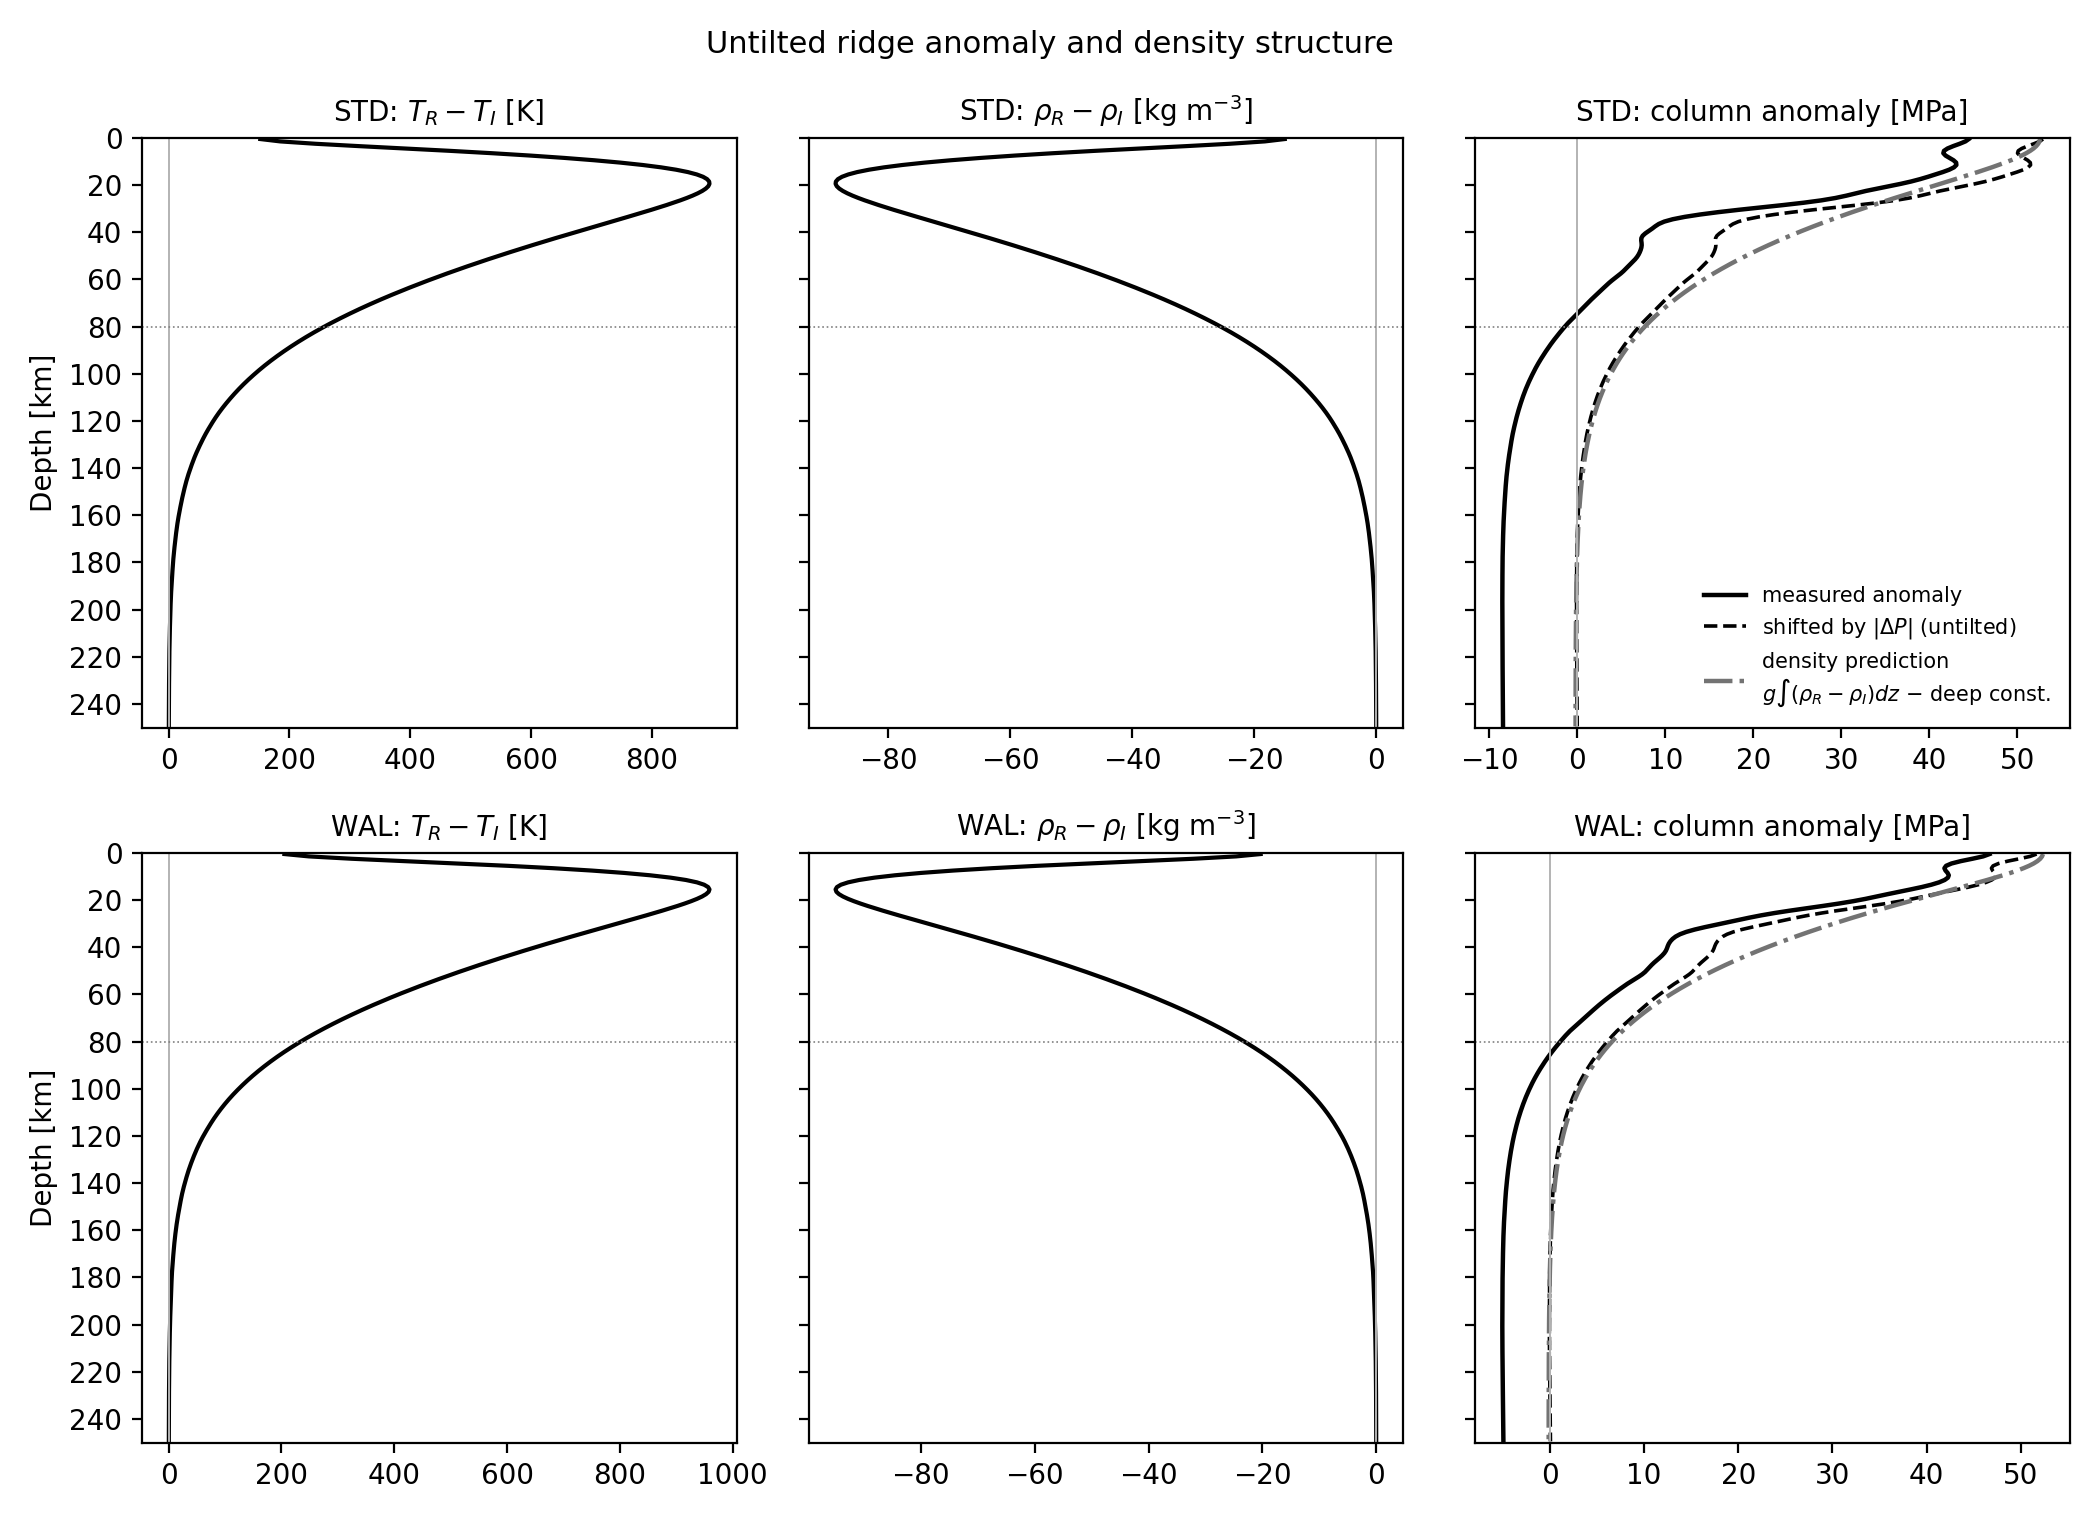
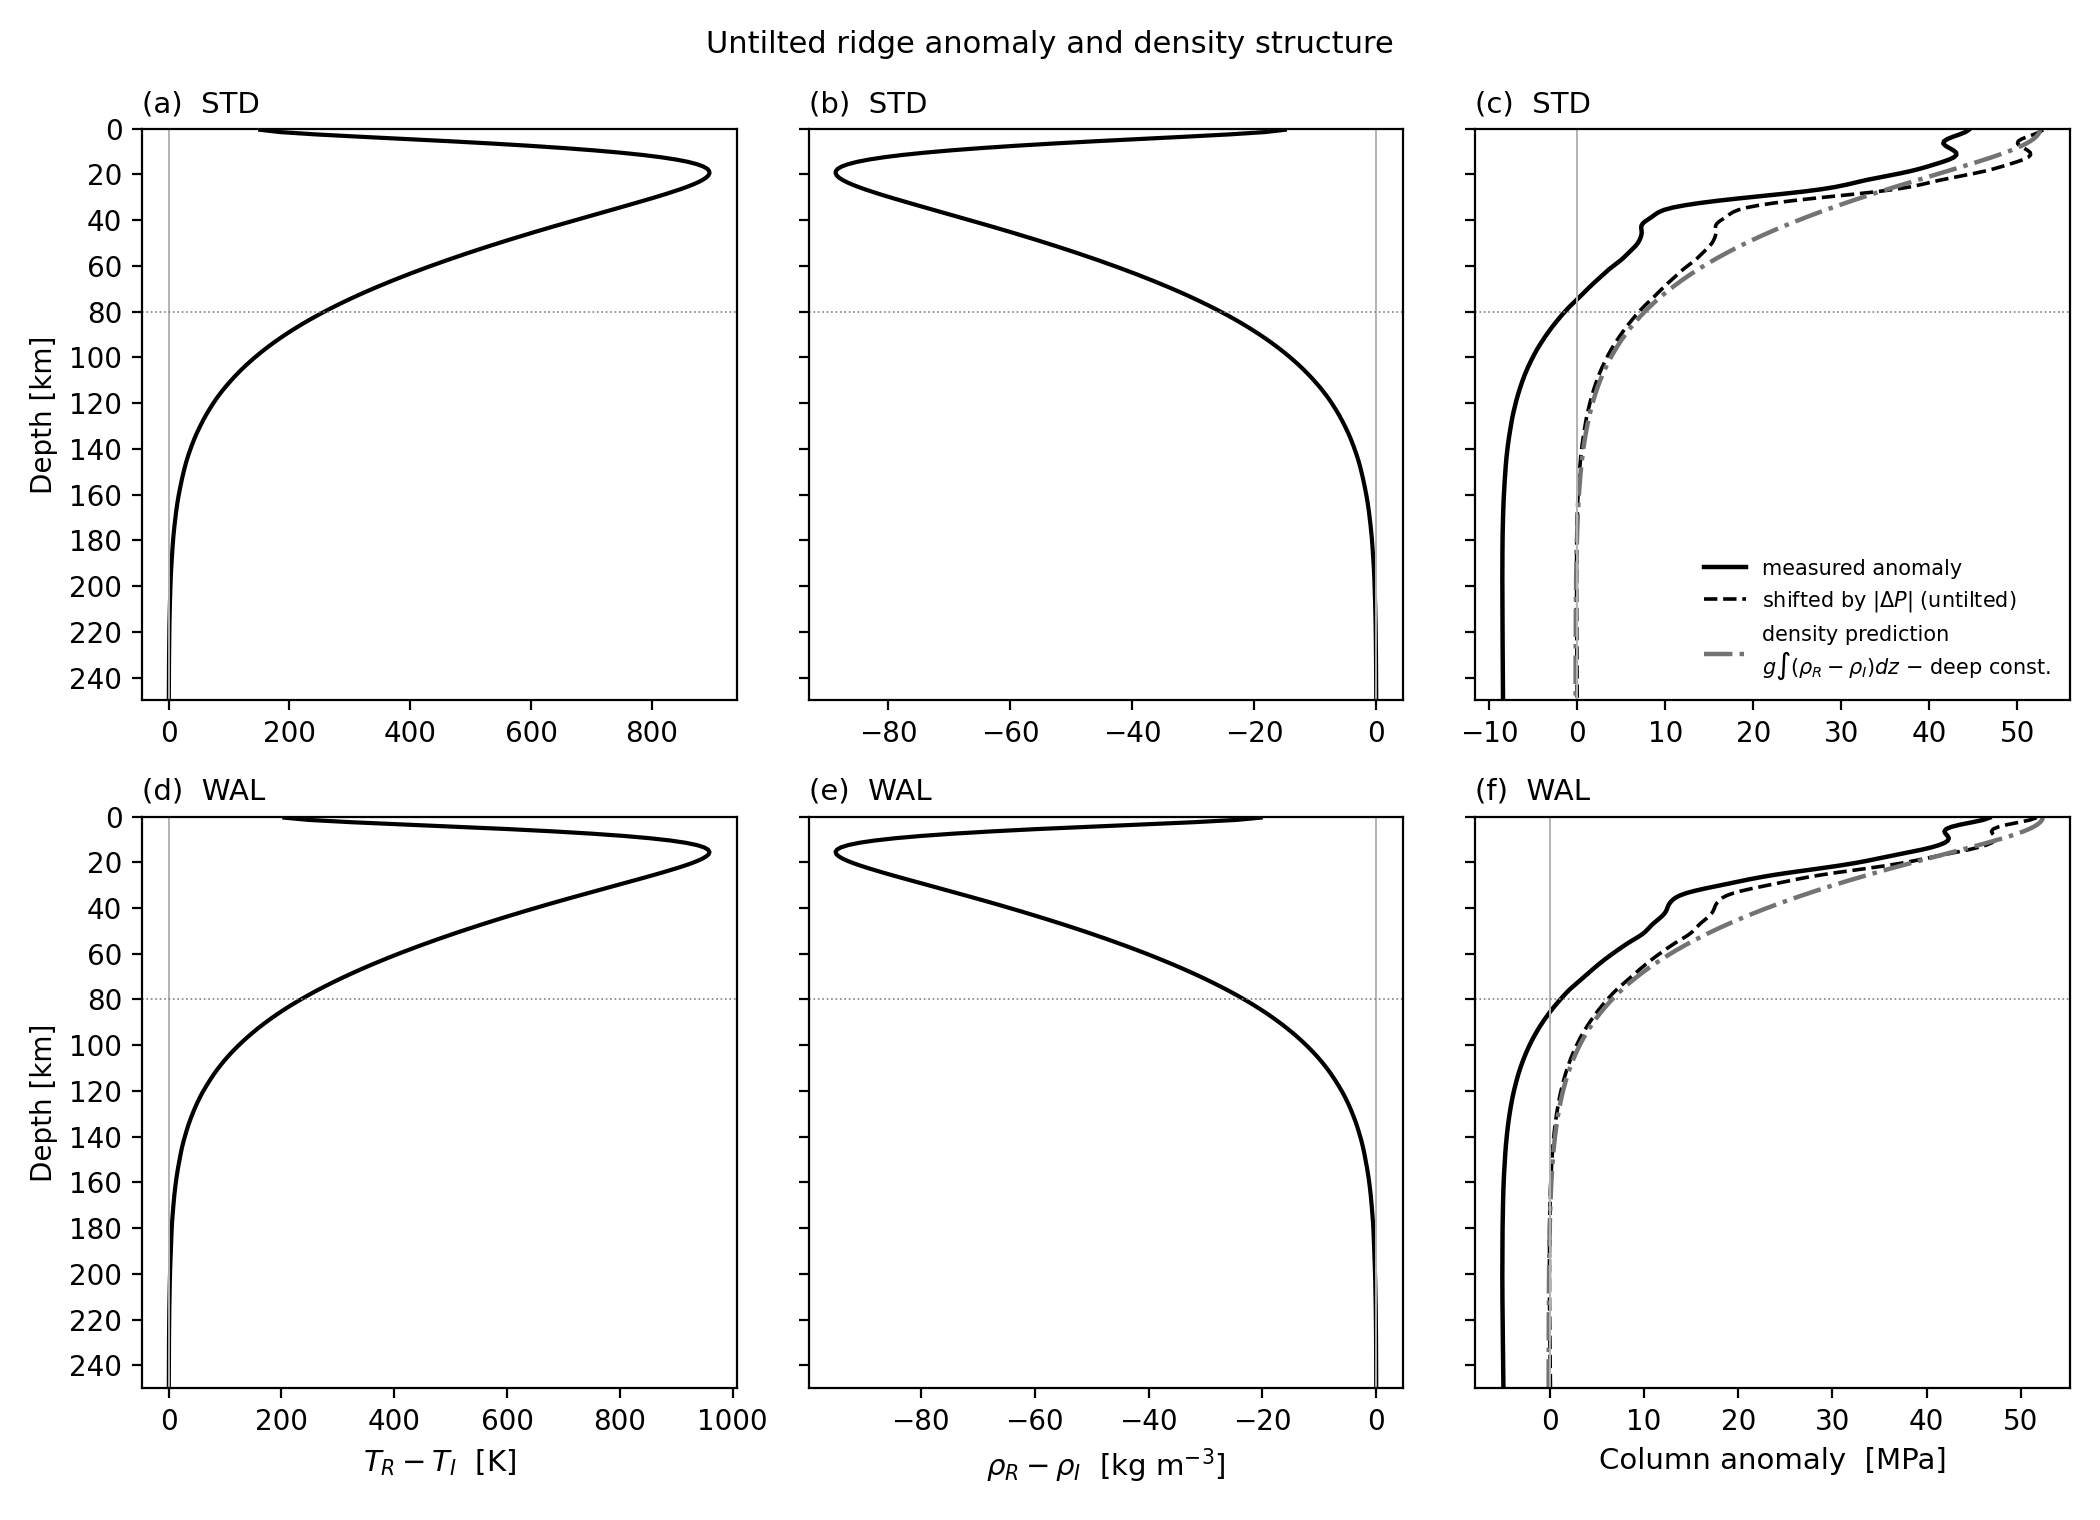
SI figures: panel titles stop narrating, and stop stating results
An audit of the thirteen SI figure scripts for the construction habits we
have been removing from Figure 6. Three scripts carried them.

S8 fig_ridge_cumulative, the worst case. All four titles were
conversational sentences and one of them stated a result:
  (a) the shape, mid-run   (dot: the crossing)
  (b) the cost of a different depth, mid-run
  (c) the crossing deepens; z_c is fixed      <- a claim, in a title
  (d) what the fixed depth costs, step by step
Now noun phrases. The dot is already identified in the SI caption, so
nothing is lost by dropping it from the title.

Its axis labels were lower-case against the register's sentence case
(SYMBOLOGY section 3), and one read "cost of z_c vs that step's z^*" --
an abbreviation and a conversational possessive on an axis. It now reads
"Shortfall relative to z^*(t)", the word the SI text already uses for
this quantity, so figure and prose agree.

S3 fig_trench_resultants: "key stress resultants" and "N_D at key
locations" -- "key" twice as filler. The locations are named columns, so
(b) now says which.

S13 fig_ridge_density_check: titles were "model: formula [units]",
putting the quantity and its unit bracket where the x-label belongs, in
the one figure of the set that also had no panel letters. Letters added,
units moved to the axes.

Ten of the thirteen needed nothing.

diff --git a/scripts/fig_ridge_cumulative.py b/scripts/fig_ridge_cumulative.py
@@ -165,7 +165,7 @@ def main():
     a_shape.axvline(0, color='0.55', lw=1.3)
     a_shape.set_xlabel(r'Cumulative $-\Delta\sigma_{zz}$  ($x_R - x_I$)  [TN/m]',
                        fontsize=10.5)
-    a_shape.set_title('(a) the shape, mid-run   (dot: the crossing)',
+    a_shape.set_title('(a) Cumulative ridge-side force, mid-run',
                       fontsize=10.5, loc='left')
     a_shape.legend(frameon=False, fontsize=9, loc='lower right')
 
@@ -173,8 +173,8 @@ def main():
     for v in (-10, 10):
         a_cost.axvline(v, color='0.45', lw=1.0, ls='--')
     a_cost.set_xlim(-45, 15)
-    a_cost.set_xlabel('change from the value at $z_c$  [%]', fontsize=10.5)
-    a_cost.set_title('(b) the cost of a different depth, mid-run',
+    a_cost.set_xlabel('Change from the value at $z_c$  [%]', fontsize=10.5)
+    a_cost.set_title('(b) Sensitivity to the integration depth',
                      fontsize=10.5, loc='left')
 
     for ax, loc in ((a_zstar, 'upper left'), (a_tcost, 'lower right')):
@@ -182,15 +182,15 @@ def main():
         ax.grid(alpha=0.25, color=C_RULE, lw=0.6)
         ax.legend(frameon=False, fontsize=9, loc=loc)
     a_zstar.axhline(cpc.ZC_KM, color='0.30', lw=1.4)
-    a_zstar.set_ylabel(r'crossing depth $z^{*}$ [km]', fontsize=11)
-    a_zstar.set_title(r'(c) the crossing deepens; $z_c$ is fixed',
+    a_zstar.set_ylabel(r'Crossing depth $z^{*}$  [km]', fontsize=11)
+    a_zstar.set_title('(c) Crossing depth through time',
                       fontsize=10.5, loc='left')
     a_tcost.axhline(0, color='0.55', lw=1.3)
     for v in (-10,):
         a_tcost.axhline(v, color='0.45', lw=1.0, ls='--')
-    a_tcost.set_ylabel(r"cost of $z_c$ vs that step's $z^{*}$  [%]",
+    a_tcost.set_ylabel(r'Shortfall relative to $z^{*}(t)$  [%]',
                        fontsize=11)
-    a_tcost.set_title('(d) what the fixed depth costs, step by step',
+    a_tcost.set_title('(d) Shortfall of the fixed depth through time',
                       fontsize=10.5, loc='left')
 
     out = os.path.join(ROOT, 'figures', 'fig_ridge_cumulative.png')

diff --git a/scripts/fig_ridge_density_check.py b/scripts/fig_ridge_density_check.py
@@ -54,16 +54,16 @@ def main():
         lith_c = sm(c['lith_R'][m].mean(axis=0)) / 1e6
         ax = axes[row, 0]
         ax.plot(Td, zkm, 'k-', lw=1.5)
-        ax.set_title(f'{k}: $T_R - T_I$ [K]', fontsize=10)
+        ax.set_title(f'({"ad"[row]})  {k}', fontsize=10.5, loc='left')
         ax = axes[row, 1]
         ax.plot(rd, zkm, 'k-', lw=1.5)
-        ax.set_title(f'{k}: $\\rho_R - \\rho_I$ [kg m$^{{-3}}$]', fontsize=10)
+        ax.set_title(f'({"be"[row]})  {k}', fontsize=10.5, loc='left')
         ax = axes[row, 2]
         ax.plot(ps, zkm, 'k-', lw=1.6, label='measured anomaly')
         ax.plot(ps - dP, zkm, 'k--', lw=1.3, label='shifted by $|\\Delta P|$ (untilted)')
         ax.plot(lith_c, zkm, color='0.45', lw=1.6, ls='-.',
                 label='density prediction\n$g\\int(\\rho_R-\\rho_I)dz$ $-$ deep const.')
-        ax.set_title(f'{k}: column anomaly [MPa]', fontsize=10)
+        ax.set_title(f'({"cf"[row]})  {k}', fontsize=10.5, loc='left')
         if row == 0:
             ax.legend(fontsize=7.5, frameon=False, loc='lower right')
         sel = (zkm > 5) & (zkm < 220)
@@ -83,6 +83,14 @@ def main():
         for a in axes[row]:
             a.axvline(0, color='0.7', lw=0.7)
             a.axhline(cpc.ZC_KM, color='0.5', lw=0.6, ls=':')
+    # THE QUANTITY AND ITS UNITS BELONG ON THE AXIS, not in the title. The
+    # titles read '{model}: $T_R - T_I$ [K]' and so on -- a formula and a
+    # unit bracket doing the x-label's job, in the one figure of the set
+    # that also had no panel letters.
+    for a, lab in zip(axes[1], (r'$T_R - T_I$  [K]',
+                                r'$\rho_R - \rho_I$  [kg m$^{-3}$]',
+                                r'Column anomaly  [MPa]')):
+        a.set_xlabel(lab, fontsize=10.5)
     axes[0, 0].set_ylim(250, 0)
     axes[0, 0].set_ylabel('Depth [km]')
     axes[1, 0].set_ylabel('Depth [km]')

diff --git a/scripts/fig_trench_resultants.py b/scripts/fig_trench_resultants.py
@@ -212,7 +212,7 @@ def main():
     # Panel titles name the SUBJECT only; what each curve is belongs in the
     # legend and the caption, not spelled out across the top of the figure
     # (Dan, 2026-09-25).
-    axes[0].set_title('(a) key stress resultants at the trench', fontsize=11)
+    axes[0].set_title('(a) Stress resultants at the trench', fontsize=11)
     a0b.set_ylabel(r'Bending moment, $-M(x_T)$ [$10^{17}$ N]', fontsize=11)
     # SHARED NUMERICAL RANGE, SYMMETRIC ABOUT ZERO (Dan, 2026-09-25).
     # The two axes carry different dimensions -- TN/m and 1e17 N -- and are
@@ -229,7 +229,7 @@ def main():
     A = max(abs(fl), abs(fh))
     axes[0].set_ylim(-A, A)
     a0b.set_ylim(-A, A)
-    axes[1].set_title('(b) $N_D$ at key locations in the trailing plate',
+    axes[1].set_title('(b) $N_D$ at the three bounding columns',
                       fontsize=11)
     axes[1].set_xlabel('Model time [Myr]', fontsize=12)
     for ax in axes:
